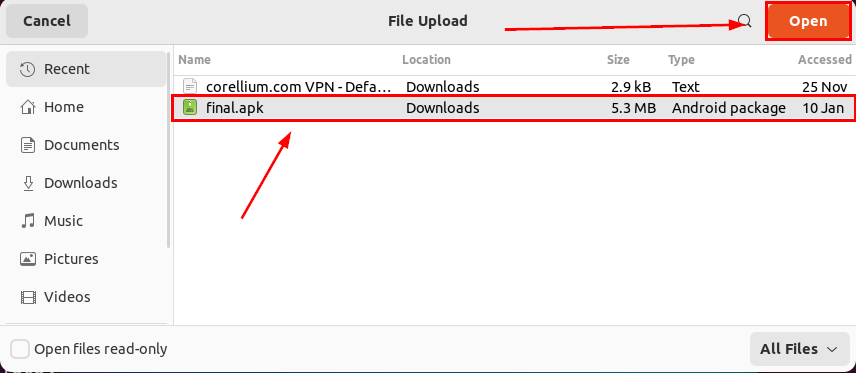
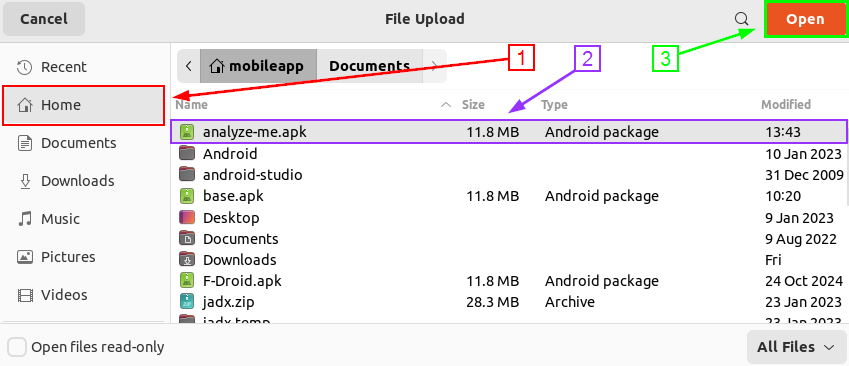
Lab 2 final updates and changes

diff --git a/Labs/LAB_02_APK_Extraction/instructions.md b/Labs/LAB_02_APK_Extraction/instructions.md
@@ -14,7 +14,7 @@ Before getting started, let's turn on our Corellium Android device:
 
 Next, open a terminal window within the MobileApp VM. Run the following command to connect to the Android device:
 
-<pre>ssh -M -Ssock -N -f -L 5001:[Your Device Address]:5001 [Your Device ID]@proxy.corellium.com -i ~/.ssh/id_rsa/sshKey</pre>
+<pre>ssh -M -Ssock -N -f -L 5001:[Your Device Address]:5001 [Your Device ID]@proxy.corellium.com -i sshKey</pre>
 
 >[!Note]
 >You will have a unique device address and ID.
@@ -23,7 +23,7 @@ Your version of the command can be copied here:
 
 ![](images/copycommand.png)
 
-Paste that command into your VM terminal and run it. Be sure to add `-i ~/.ssh/id_rsa/sshKey` to the end of the command.
+Paste that command into your VM terminal and run it. Be sure to add `-i sshKey` to the end of the command.
 
 You will see the following:
 
@@ -49,11 +49,11 @@ Copy the line in the output that ends in `base.apk` as shown below:
 
 ![](images/copybaseapk.png)
 
-Next, run the final command:
+Next, run the final command. Make sure you give it a different output name this time!
 
 <pre>adb pull [PATH_TO_APP] [OUTFILE_NAME]</pre>
 
-![](images/adbpullpath.png)
+![](images/renameapk.png
 
 ## Running MobSF
 
@@ -75,10 +75,10 @@ Once loaded, go ahead and click "Upload and Analyze", and upload an APK file.
 
 ![](images/openapk.png)
 
-Processing the APK file will take a while, so let that keep running in the background as we will use it for future labs.
+Processing the APK file will take a while, so let's continue on. Let it keep running in the background as we will use it for future labs.
 
 ## Analyzing Other Apps
-You can also test out any app youd like from the Play Store. To do this you will need to install `OpenGApps`. This will give you access to the Google Play Store. This can be done from the "Apps" tab in Corellium.
+You can also test out any app you'd like from the Play Store. To do this you will need to install `OpenGApps`. This will give you access to the Google Play Store. This can be done from the "Apps" tab in Corellium.
 
 ![](images/installopengapps.png)
 
